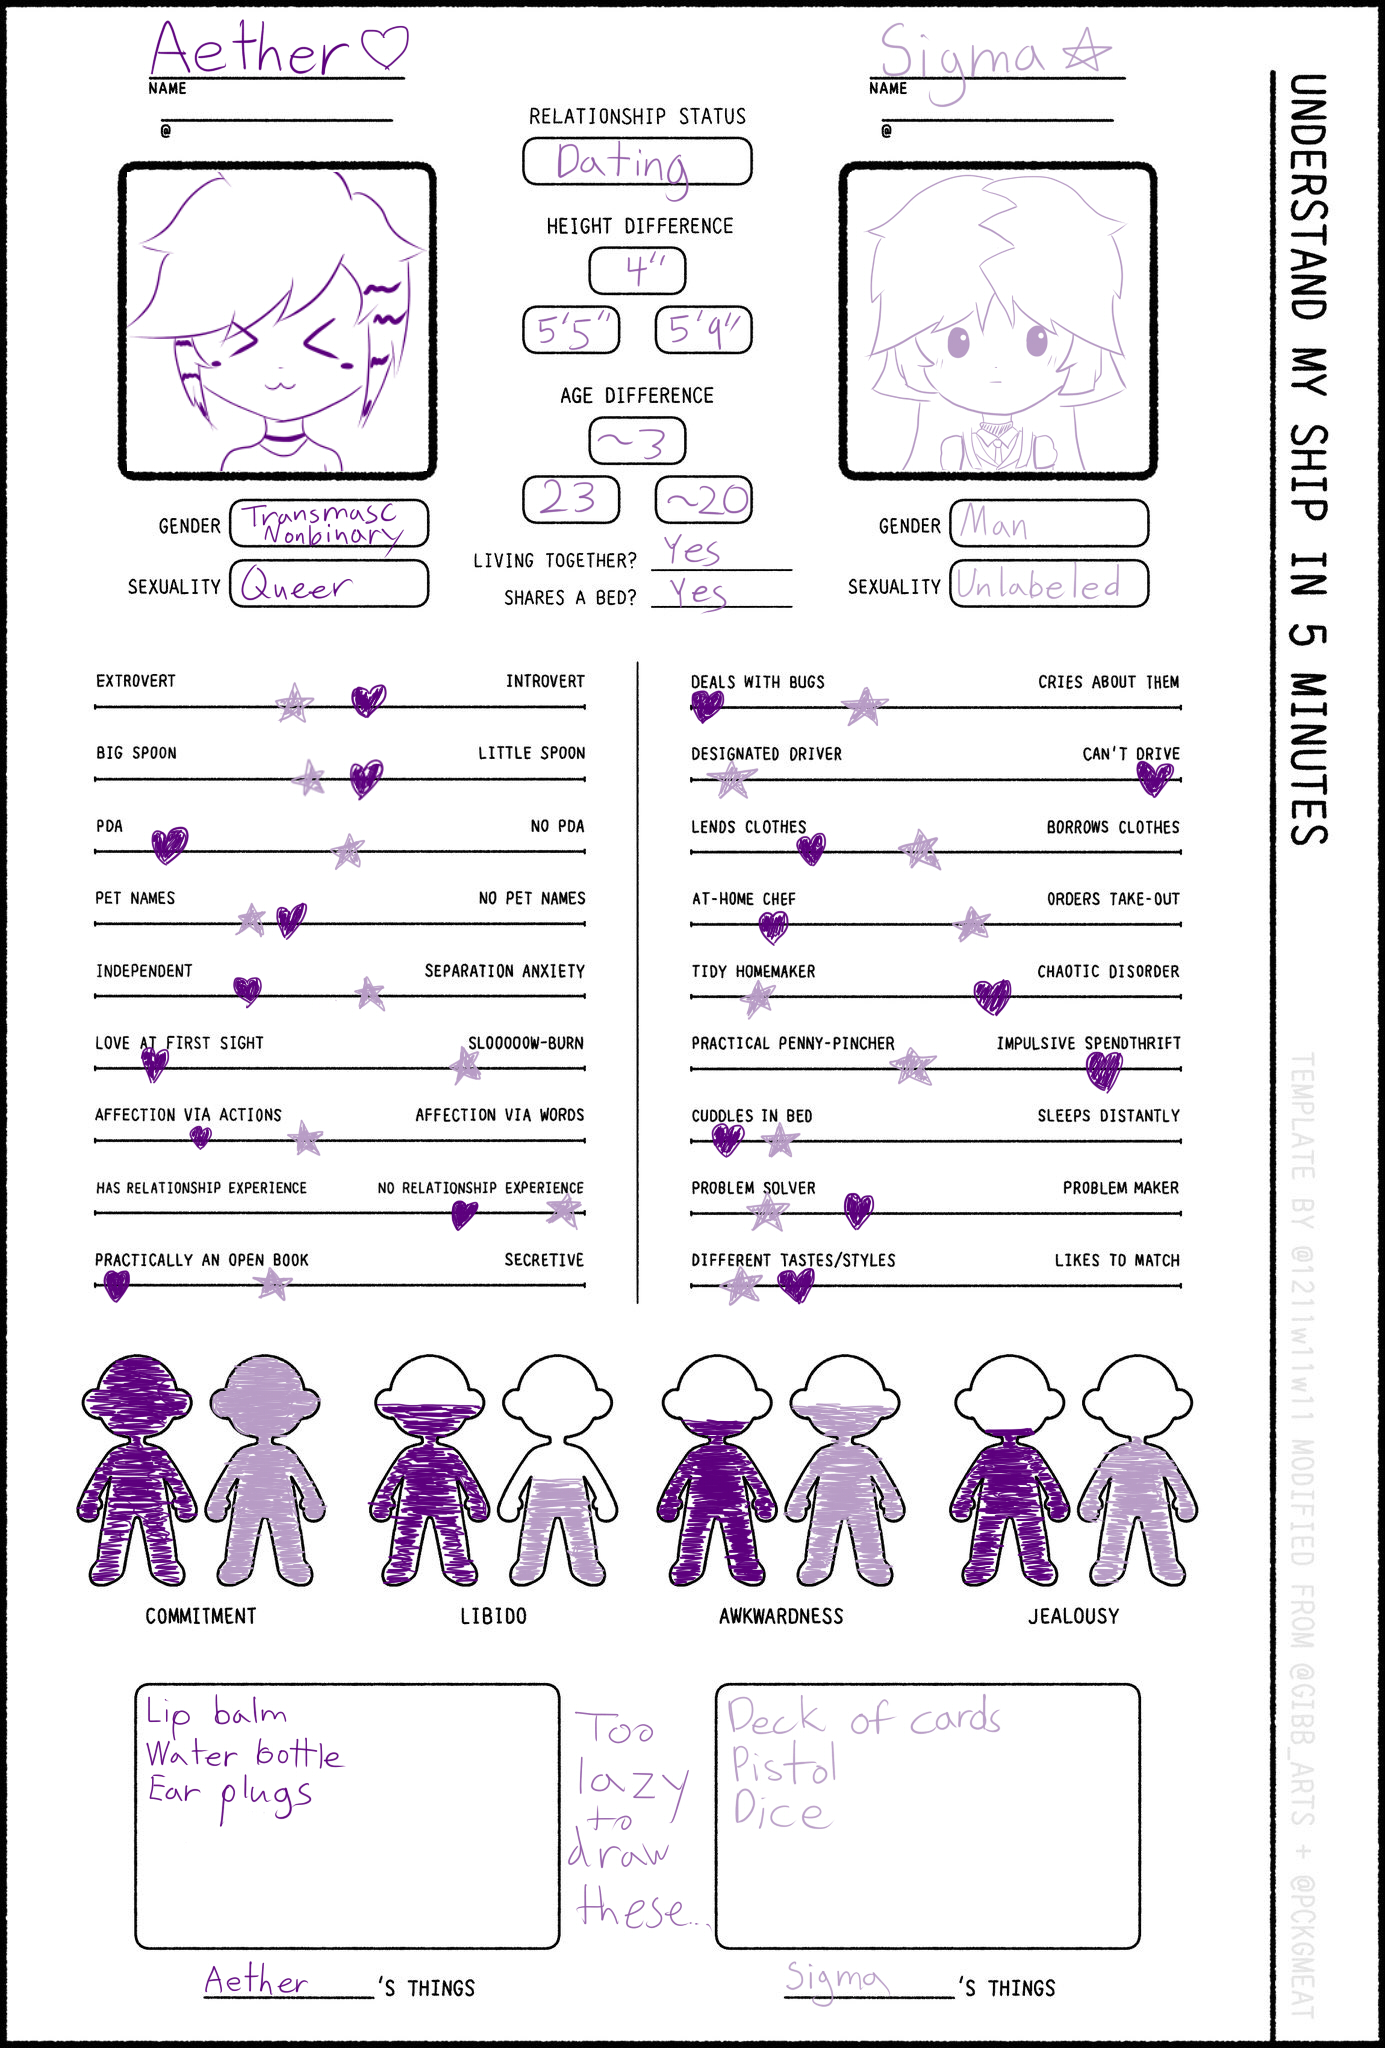
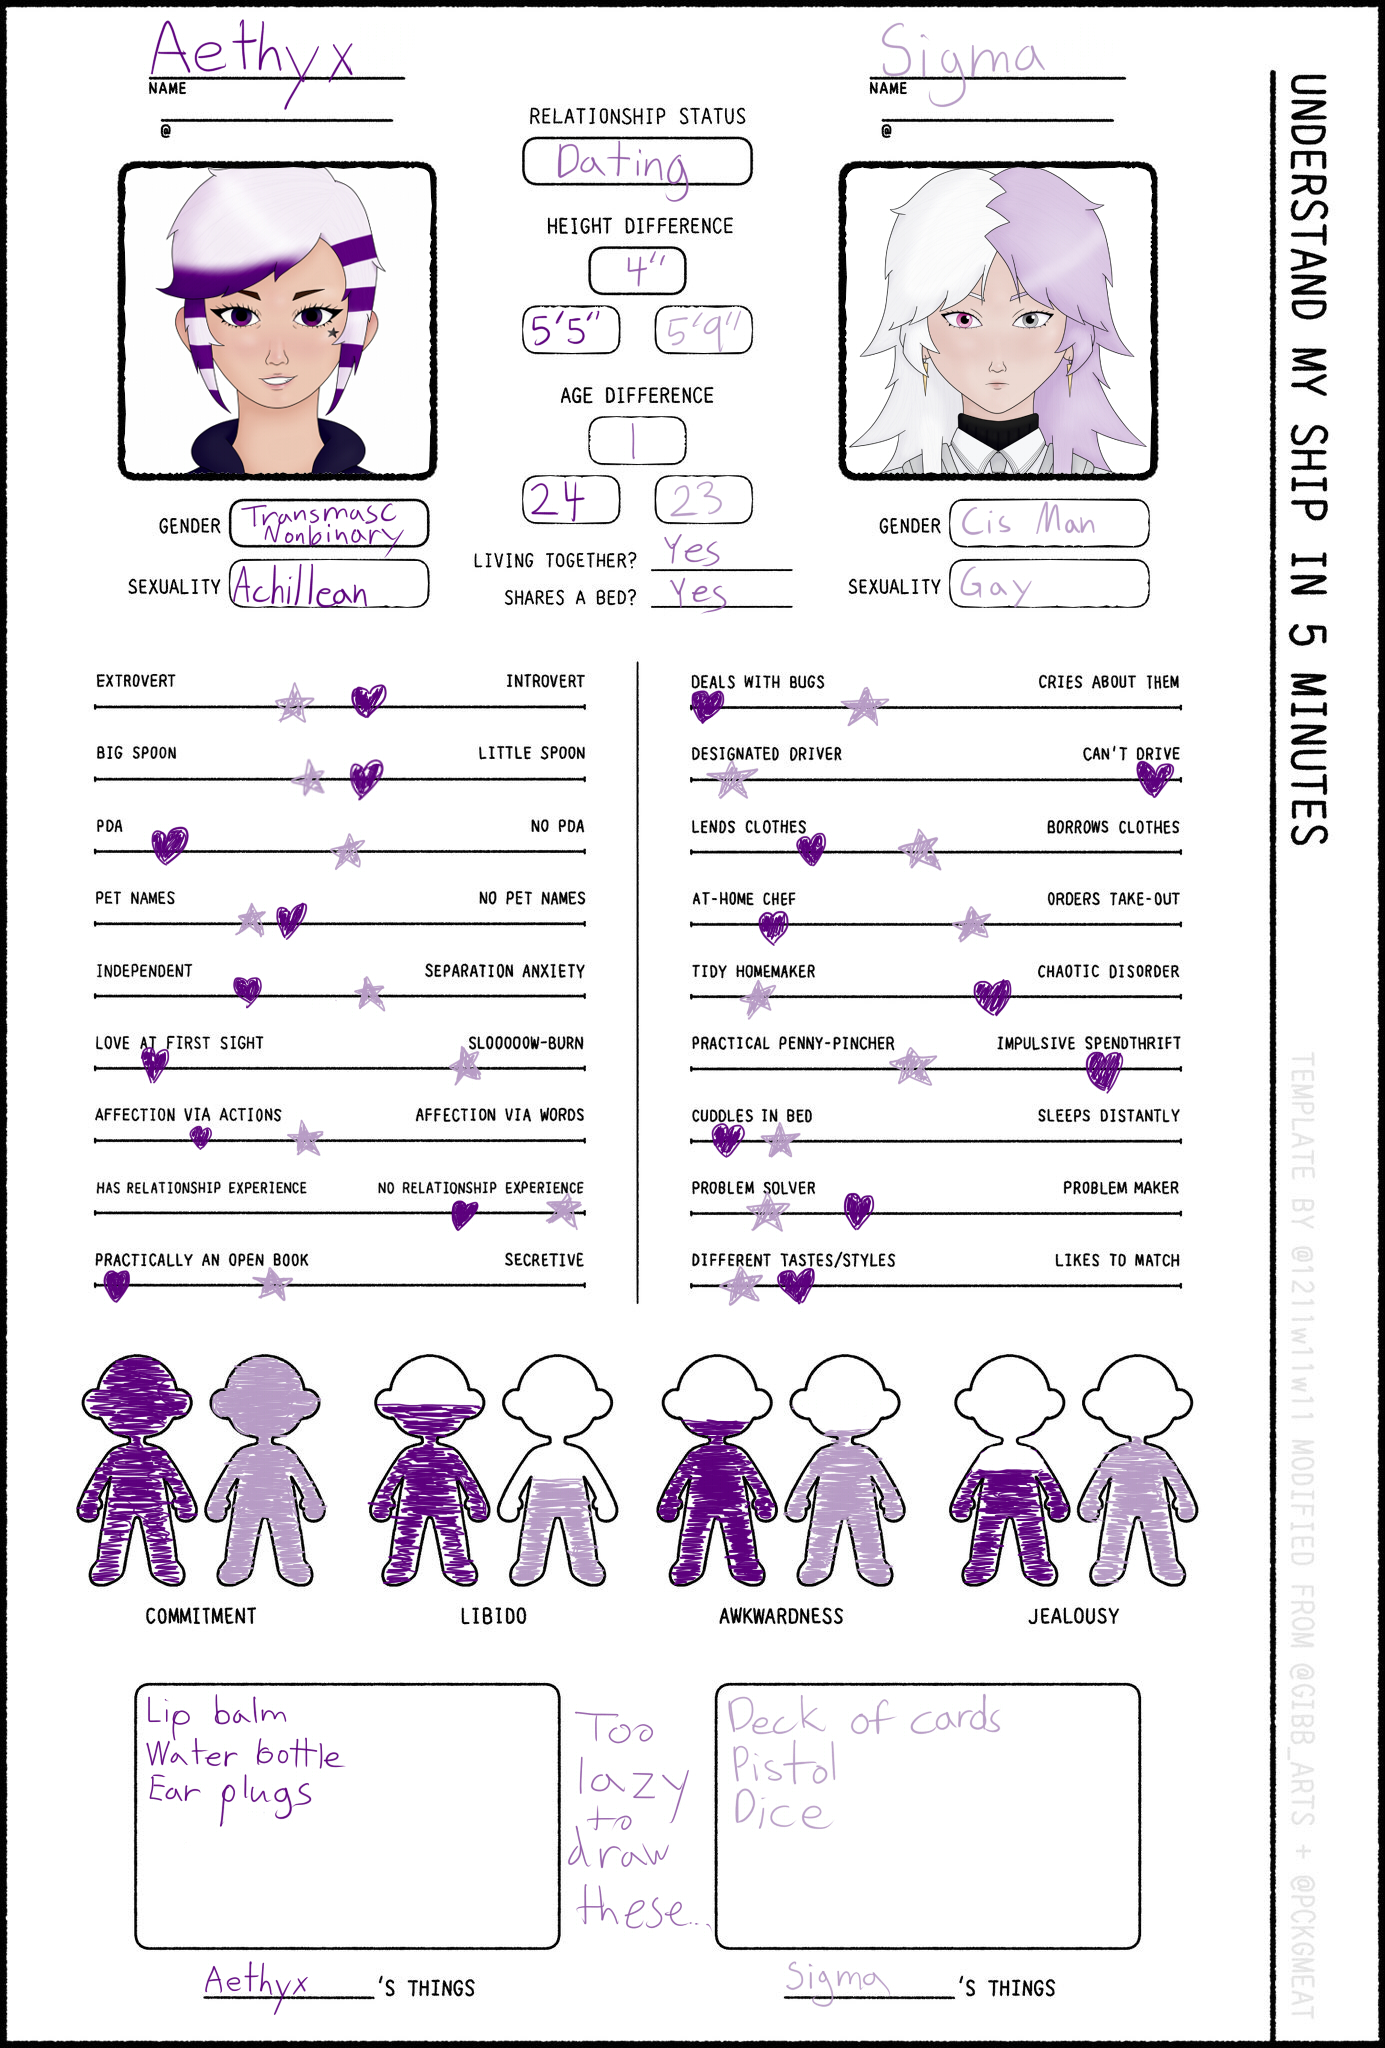
sona art

diff --git a/aboutus.html b/aboutus.html
@@ -13,7 +13,7 @@
 <article>
   <h3 class="title">About Me</h3>
      <figure>
-       
+       <img src="./images/aboutus/aeth.jpg" class="aupic"/>
      </figure>
      <ul>
       <li>You can call me Aethyx (<em>pronounced 'ee-thicks'</em>), Aether, Aeth, or Angel!</li>
@@ -73,15 +73,14 @@
       <li><strong>Relationship status:</strong> dating (for marriage UwU)</li>
       <li>True soulmates <3</li>
     </ul>
-    <!--
     <figure>
-      <img src="./images/aboutus/shiptemp.jpg" class="aupic"/>
-      <img src="./images/aboutus/shiptemp.jpg" class="aupic"/>
-      <img src="./images/aboutus/shiptemp.jpg" class="aupic"/>
-      <img src="./images/aboutus/shiptemp.jpg" class="aupic"/>
-      <img src="./images/aboutus/shiptemp.jpg" class="aupic"/>
+      <img src="./images/aboutus/shiptemp1.jpg" class="aupic"/>
+      <img src="./images/aboutus/shiptemp6.jpg" class="aupic"/>
+      <img src="./images/aboutus/shiptemp5.jpg" class="aupic"/>
+      <img src="./images/aboutus/shiptemp7.jpg" class="aupic"/>
+      <img src="./images/aboutus/shiptemp8.jpg" class="aupic"/>
+      <img src="./images/aboutus/shiptemp9.jpg" class="aupic"/>
     </figure>
-    -->
     </div>
 </article>
 <footer>

diff --git a/spicycomms.html b/spicycomms.html
@@ -1,0 +1,25 @@
+<!DOCTYPE html>
+<html>
+<head>
+  <title>18+ Commissions!</title>
+  <link href="./style.css" rel="stylesheet">
+</head>
+<body>
+<header>
+  <a href="./index.html">Home</a>
+  <a href="./comms.html">Back</a>
+  <h2 class="title">NSFW Commissions</h2>
+</header>
+<article>
+</article>
+<footer>
+  <a href="" target="_blank" id="twt">Twitter</a>
+  <a href="https://www.reddit.com/user/aether_pie" target="_blank">Reddit</a>
+  <a href="https://instagram.com/sigaeth.central/" target="_blank">Instagram</a>
+  <a href="https://sigaeth.straw.page/" target="_blank">Strawpage</a>
+  <a href="https://sigma.waifu.ist" target="_blank">Waifu.ist</a>
+</footer>
+</body>
+</html>
+
+

diff --git a/comms.html b/comms.html
@@ -12,7 +12,8 @@
   </header>
   <article>
     <h3 class="title">Commissions</h3>
-    <p>Nothing here yet...
+    <p>Nothing here yet...</p>
+    <!-- <p>Click <a href="spicycomms.html">here</a> for NSFW comms! (only if you're 18+)</p> -->
     <!--
     <figure>
       <img src="./images/comms/"/>

diff --git a/oriart.html b/oriart.html
@@ -82,6 +82,11 @@
       <figcaption>Beaded Bracelets</figcaption>
     </figure>
     <br>
+    <figure>
+      <img src="./images/art/aeth.jpg"/>
+      <figcaption>Digital Drawing</figcaption>
+    </figure>
+    <br>
   </article>
 <footer>
   <a href="" target="_blank" id="twt">Twitter</a>
